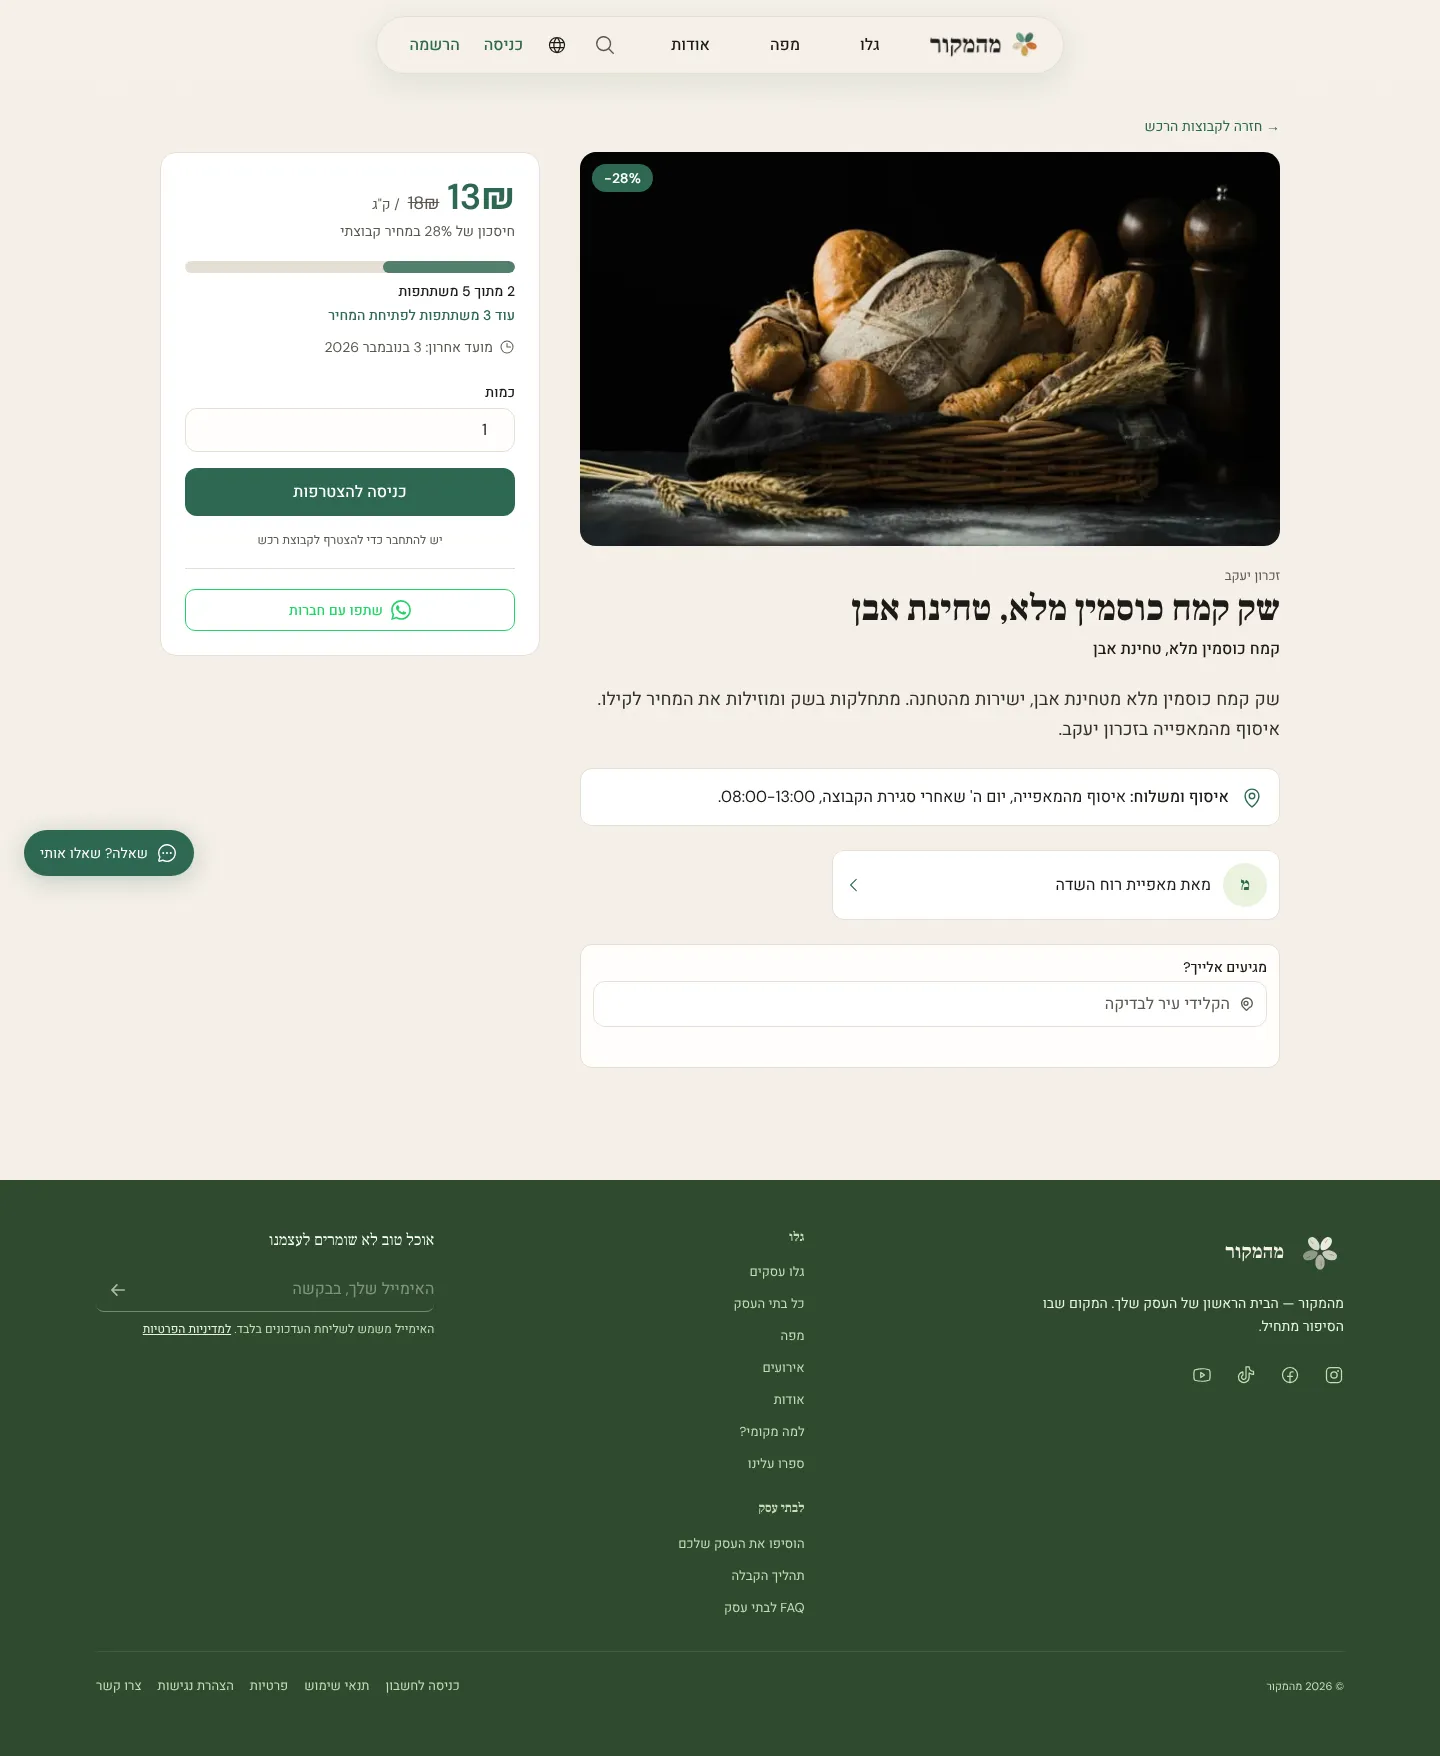
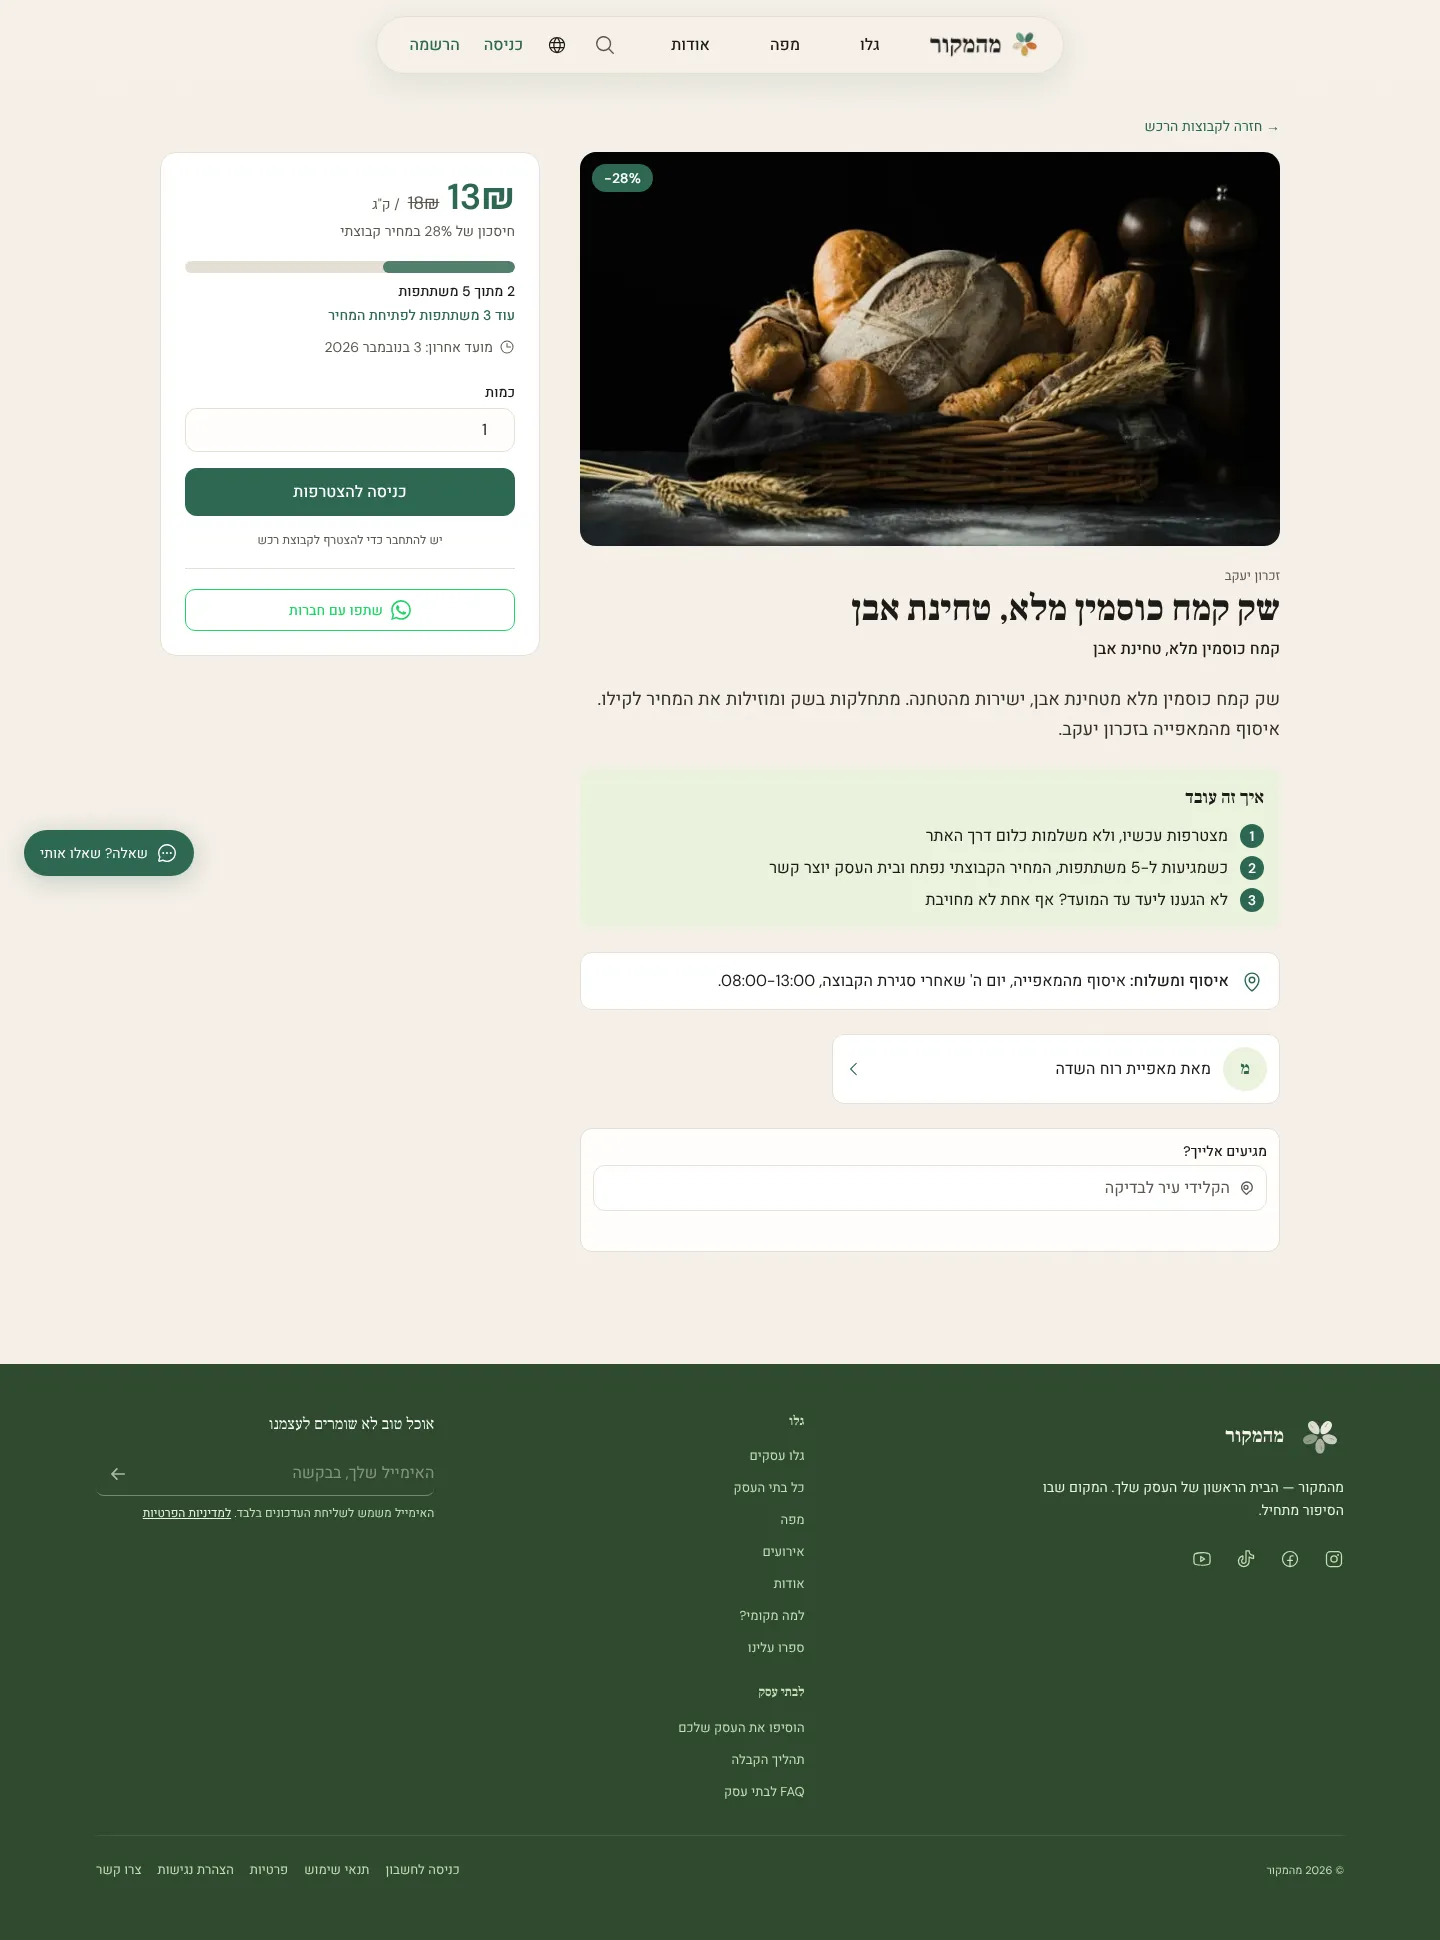
feat(group-buys): «איך זה עובד» box on an open group (MEH-2544)
Why: Sapir approved the three lines word for word on 29/10 13:28Z
("מאשרת את ההצעה"). Shown only while the group is open; the minimum comes
from the group. Test covers open (3 lines, min interpolated) and funded (none).

Builder-Model: claude-opus-5-5

Claude-Session: https://claude.ai/code/session_01X8DSqU2FnRB3Grf55ERMFf

diff --git a/frontend/app/[locale]/group-buys/[id]/GroupBuyDetailClient.jsx b/frontend/app/[locale]/group-buys/[id]/GroupBuyDetailClient.jsx
@@ -510,6 +510,27 @@ export default function GroupBuyDetailClient({ id }) {
               <p className="text-lg text-text/90 leading-relaxed whitespace-pre-line">{gb.description}</p>
             )}
 
+            {/* MEH-2544: how a group buy works, while it can still be joined —
+                copy approved by Sapir 29/10. */}
+            {open && (
+              <section className="mt-6 rounded-[12px] bg-green-50 p-4" data-testid="group-buy-how">
+                <h2 className="font-headline-md text-lg font-bold text-text mb-3">{t("how_title")}</h2>
+                <ol className="space-y-2">
+                  {[t("how_join"), t("how_unlock", { min: gb.min_participants }), t("how_no_commit")].map((line, i) => (
+                    <li key={i} className="flex gap-3 text-base text-text">
+                      <span
+                        aria-hidden="true"
+                        className="shrink-0 w-6 h-6 rounded-full bg-primary text-white text-sm font-bold grid place-items-center"
+                      >
+                        {i + 1}
+                      </span>
+                      <span>{line}</span>
+                    </li>
+                  ))}
+                </ol>
+              </section>
+            )}
+
             {/* MEH-1457: "מתי ואיך מקבלים" — shown only when the producer filled it. */}
             {gb.fulfillment_note && (
               <div className="mt-6 flex gap-3 rounded-[12px] border border-border bg-white p-4">

diff --git a/frontend/__tests__/GroupBuyLook.test.jsx b/frontend/__tests__/GroupBuyLook.test.jsx
@@ -116,6 +116,20 @@ describe("group-buy page", () => {
     expect(screen.getByTestId("group-buy-discount").textContent).toBe("-28%");
   });
 
+  it("open → «איך זה עובד» with the group's minimum; funded → no box", async () => {
+    api.get.mockResolvedValue({ data: GB });
+    const { unmount } = render(<GroupBuyDetailClient id="gb-1" />);
+    await screen.findByText("שק קמח כוסמין");
+    const how = screen.getByTestId("group-buy-how");
+    expect(how.querySelectorAll("li")).toHaveLength(3);
+    expect(how.textContent).toContain(`group_buys.detail.how_unlock ${GB.min_participants}`);
+    unmount();
+    api.get.mockResolvedValue({ data: { ...GB, status: "funded" } });
+    render(<GroupBuyDetailClient id="gb-1" />);
+    await screen.findByText("שק קמח כוסמין");
+    expect(screen.queryByTestId("group-buy-how")).toBeNull();
+  });
+
   it("no business photo → the cart tile", async () => {
     api.get.mockResolvedValue({ data: { ...GB, producer_image_url: null } });
     render(<GroupBuyDetailClient id="gb-1" />);
